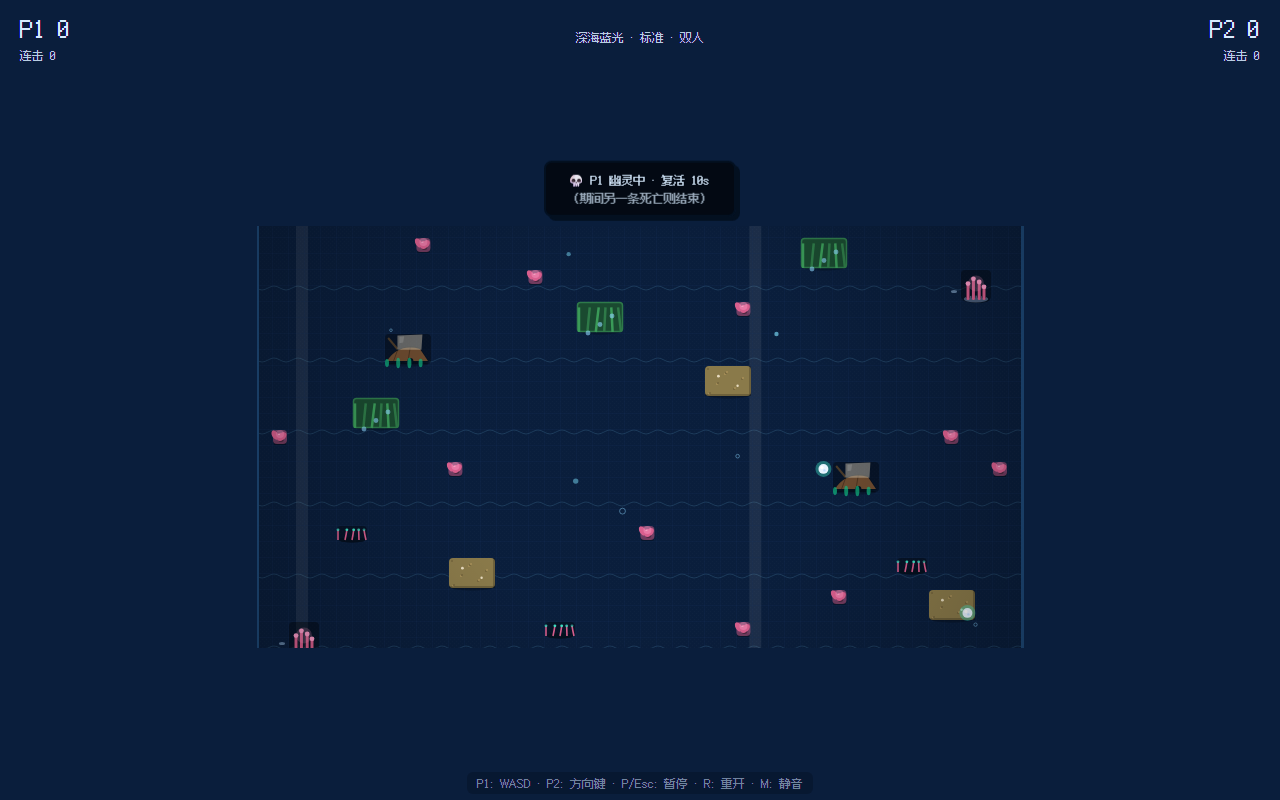
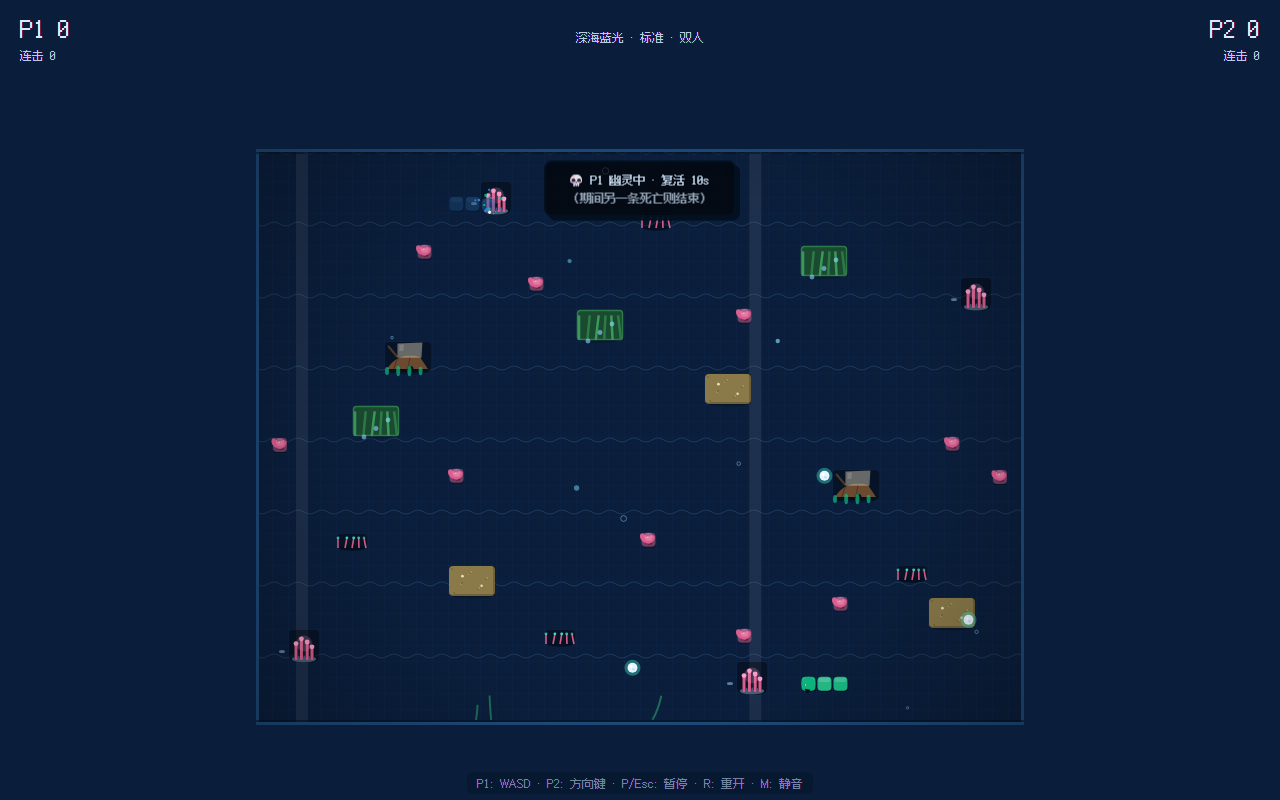
fix: 离散两档缩放（40x22满屏恒定/全图档）+ 消除canvas每帧resize性能灾难 + 渐变缓存

diff --git a/src/render/renderer.ts b/src/render/renderer.ts
@@ -4,7 +4,7 @@
 // 纯绘制，不依赖 React；状态经 EngineView 传入
 // ============================================================
 import type { Cell, Direction, SnakeState, Theme } from "../game/core/types"
-import { CELL, VIEW_PX_H, VIEW_PX_W, VIEW_H, VIEW_W, VIEW_ASPECT, calcCoopView, clampCam, fitScale, type ViewSize } from "./camera"
+import { CELL, VIEW_PX_H, VIEW_PX_W, VIEW_H, VIEW_W, calcCoopView, clampCam, fitScale, type ViewSize } from "./camera"
 import { DIFFICULTY_PRESETS } from "../game/core/constants"
 import { obstacleCell } from "../game/core/obstacles"
 import { drawAo, drawObstacleShape, renderStaticLayer } from "./staticLayer"
@@ -46,6 +46,8 @@ export class Renderer {
   private lastContainerH = 0
   private lastScale = 0
   private shade = 0 // 档位切换遮罩（0~1）
+  private vignetteGrad: CanvasGradient | null = null
+  private vignetteKey = ""
 
   constructor(canvas: HTMLCanvasElement) {
     this.canvas = canvas
@@ -91,29 +93,26 @@ export class Renderer {
     // ---- 相机与动态缩放（docs/11/13）----
     const mapPxW = map.grid.w * CELL
     const mapPxH = map.grid.h * CELL
-    // 目标视野：coop=两蛇包围盒+边距（拉远），solo=默认
+    // 目标视野：coop=两蛇包围盒→离散档位（40 或全图），solo=默认（docs/13 第 4 版）
     let targetView: ViewSize = { w: VIEW_W, h: VIEW_H }
     if (view.mode === "coop" && view.snakes.length === 2) {
       const a = view.snakes[0].body[0]
       const b = view.snakes[1].body[0]
       targetView = calcCoopView(Math.abs(a.x - b.x) + 1, Math.abs(a.y - b.y) + 1)
     }
-    // 平滑缩放（docs/13 丝滑化）：指数衰减 + 每帧限速；h 由 w 推导保持 4:3 同步
-    const diff = targetView.w - this.viewW
-    const maxStep = 6 * dt // 每帧最多变化 6 格/秒（~4s 从近距到全图）
-    const step = Math.max(-maxStep, Math.min(maxStep, diff * dt * 3))
-    this.viewW += step
-    this.viewH = this.viewW / VIEW_ASPECT
-    // canvas 尺寸连续像素变化（docs/13：消除整数格阶跃震动；浮点视野×16 取整）
-    const pxW = Math.round(this.viewW * CELL)
-    const pxH = Math.round(this.viewH * CELL)
+    // 离散档位直接切换（无连续 lerp；canvas 尺寸只在切换时变 → 消除每帧 resize 性能灾难）
+    this.viewW = targetView.w
+    this.viewH = targetView.h
+    // canvas 尺寸（像素）
+    const pxW = this.viewW * CELL
+    const pxH = this.viewH * CELL
     if (this.canvas.width !== pxW || this.canvas.height !== pxH) {
       const scale = fitScale(this.lastContainerW, this.lastContainerH, pxW, pxH)
       this.canvas.width = pxW
       this.canvas.height = pxH
       this.canvas.style.width = `${pxW * scale}px`
       this.canvas.style.height = `${pxH * scale}px`
-      // scale 档位切换（2↔1）→ 遮罩过渡，避免跳变感
+      // scale 档位切换 → 遮罩过渡，避免跳变感
       if (scale !== this.lastScale) {
         this.lastScale = scale
         this.shade = 1
@@ -637,10 +636,16 @@ export class Renderer {
   ): void {
     const w = this.canvas.width
     const h = this.canvas.height
-    const g = ctx.createRadialGradient(w / 2, h / 2, Math.min(w, h) * 0.45, w / 2, h / 2, Math.max(w, h) * 0.75)
-    g.addColorStop(0, "rgba(0,0,0,0)")
-    g.addColorStop(1, "rgba(0,0,0,0.35)")
-    ctx.fillStyle = g
+    // 渐变缓存（docs/13 帧率优化：避免每帧创建渐变对象）
+    const key = `${w}x${h}`
+    if (!this.vignetteGrad || this.vignetteKey !== key) {
+      this.vignetteKey = key
+      const g = ctx.createRadialGradient(w / 2, h / 2, Math.min(w, h) * 0.45, w / 2, h / 2, Math.max(w, h) * 0.75)
+      g.addColorStop(0, "rgba(0,0,0,0)")
+      g.addColorStop(1, "rgba(0,0,0,0.35)")
+      this.vignetteGrad = g
+    }
+    ctx.fillStyle = this.vignetteGrad
     ctx.fillRect(0, 0, w, h)
     void theme
   }

diff --git a/src/render/camera.test.ts b/src/render/camera.test.ts
@@ -1,44 +1,37 @@
 // ============================================================
-// render/camera.test.ts —— 相机/动态缩放测试（docs/13）
+// render/camera.test.ts —— 相机/视野档位测试（docs/13）
 // ============================================================
 import { describe, expect, it } from "vitest"
-import { MAX_VIEW_W, MIN_VIEW_W, calcCoopView, clampCam, VIEW_ASPECT, VIEW_W } from "./camera"
+import { VIEW_H, VIEW_W, FULL_VIEW_H, FULL_VIEW_W, calcCoopView, clampCam } from "./camera"
 
-describe("calcCoopView", () => {
-  it("双蛇距离近 → 最小视野附近（margin 8 主导）", () => {
+describe("calcCoopView（离散两档，docs/13 第 4 版）", () => {
+  it("双蛇距离近 → 默认档 40×22（与单人同尺寸，满屏）", () => {
     const v = calcCoopView(3, 3)
-    // needW = max(3+16, (3+16)*VIEW_ASPECT)
-    expect(v.w).toBeGreaterThanOrEqual(MIN_VIEW_W)
-    expect(v.w).toBeCloseTo(19 * VIEW_ASPECT, 0)
-    expect(v.h).toBeCloseTo(v.w / VIEW_ASPECT)
+    expect(v).toEqual({ w: VIEW_W, h: VIEW_H })
   })
 
-  it("双蛇距离远 → 视野拉远（缩小）", () => {
-    const v = calcCoopView(30, 10)
-    expect(v.w).toBeGreaterThan(MIN_VIEW_W)
-    expect(v.h).toBeCloseTo(v.w / VIEW_ASPECT)
+  it("双蛇距离中等 → 默认档（窗口恒定满屏，不再缩小）", () => {
+    const v = calcCoopView(20, 3)
+    // needW = max(20+16, (3+16)*1.82=34.6) = 36 ≤ 40 → 默认档
+    expect(v.w).toBe(VIEW_W)
   })
 
-  it("保持 4:3 比例", () => {
-    const v = calcCoopView(12, 20)
-    expect(v.h).toBeCloseTo(v.w / VIEW_ASPECT)
+  it("横向距离主导时按宽度判断", () => {
+    const v = calcCoopView(30, 3)
+    // needW = 30+16=46 > 40 → 全图档
+    expect(v.w).toBe(FULL_VIEW_W)
   })
 
-  it("封顶 MAX_VIEW_W（整图）", () => {
+  it("双蛇拉远超默认档 → 全图档 48×36", () => {
     const v = calcCoopView(45, 30)
-    expect(v.w).toBe(MAX_VIEW_W)
+    expect(v).toEqual({ w: FULL_VIEW_W, h: FULL_VIEW_H })
   })
 
-  it("横向距离主导时按宽度 + margin 双侧（docs/13）", () => {
-    const v = calcCoopView(25, 3)
-    // 需要 25 + 8*2 = 41 > 最小，按宽度
-    expect(v.w).toBe(41)
-  })
-
-  it("margin 保证蛇离视野边缘有距离（docs/13 边距修复）", () => {
-    const v = calcCoopView(10, 10)
-    // needW = max(10+16, (10+16)*4/3) = 34.67（高向主导）
-    expect(v.w).toBeCloseTo(26 * VIEW_ASPECT, 0)
+  it("margin 计入需求宽度", () => {
+    // boxW 24 + 16 = 40 → 恰好默认档（不大于 40）
+    expect(calcCoopView(24, 3).w).toBe(VIEW_W)
+    // boxW 25 + 16 = 41 > 40 → 全图
+    expect(calcCoopView(25, 3).w).toBe(FULL_VIEW_W)
   })
 })
 
@@ -54,14 +47,8 @@ describe("clampCam", () => {
     expect(c.y).toBe(0)
   })
 
-  it("大视野（40 格宽）时 clamp 上限更小（docs/13 修复：按当前视野计算）", () => {
-    const c = clampCam(999, 999, 768, 576, 40, 30)
-    expect(c.x).toBe(768 - 40 * 16)
-    expect(c.y).toBe(576 - 30 * 16)
-  })
-
-  it("视野大于地图时 clamp 到 0（全图视野）", () => {
-    const c = clampCam(100, 100, 768, 576, MAX_VIEW_W, 36)
+  it("全图档视野时 clamp 到 0", () => {
+    const c = clampCam(100, 100, 768, 576, FULL_VIEW_W, FULL_VIEW_H)
     expect(c.x).toBe(0)
     expect(c.y).toBe(0)
   })

diff --git a/src/render/camera.ts b/src/render/camera.ts
@@ -53,12 +53,13 @@ export function clampCam(
   }
 }
 
-// ---------- 动态缩放（docs/13：双人距离远时拉远视野） ----------
+// ---------- 动态缩放（docs/13：离散两档，窗口恒定满屏） ----------
 
-/** 视野格数范围：最小 26（scale2 内放大），最大 48（整图宽，切 scale1 全图） */
-export const MIN_VIEW_W = 26
-export const MAX_VIEW_W = 48 // 整图宽（48×36），两蛇任意位置都可见
 export const VIEW_ASPECT = VIEW_W / VIEW_H // 40:22 宽屏矩形（docs/13 第 3 点）
+
+/** 全图档视野（整图 48×36，scale 1） */
+export const FULL_VIEW_W = 48
+export const FULL_VIEW_H = 36
 
 export interface ViewSize {
   w: number
@@ -66,9 +67,9 @@ export interface ViewSize {
 }
 
 /**
- * 双人动态视野：基于两蛇包围盒计算所需视野。
- * 需要容纳 包围盒 + margin 边距，保持宽屏比例；clamp 到 [MIN, MAX]。
- * 26~40 格区间为 scale2 连续缩放（窗口恒定满屏）；>40 格切 scale1 全图（遮罩过渡）。
+ * 双人视野档位（docs/13 第 4 版：离散两档，消除窗口收缩与 canvas 每帧 resize）：
+ * - 包围盒+边距 ≤ 40 格 → 默认档 40×22（scale2 恒定满屏，与单人同尺寸）
+ * - 超出 → 全图档 48×36（scale1，遮罩过渡）
  */
 export function calcCoopView(
   boxW: number,
@@ -76,6 +77,8 @@ export function calcCoopView(
   margin = 8,
 ): ViewSize {
   const needW = Math.max(boxW + margin * 2, (boxH + margin * 2) * VIEW_ASPECT)
-  const w = Math.min(Math.max(needW, MIN_VIEW_W), MAX_VIEW_W)
-  return { w, h: w / VIEW_ASPECT }
+  if (needW > VIEW_W) {
+    return { w: FULL_VIEW_W, h: FULL_VIEW_H }
+  }
+  return { w: VIEW_W, h: VIEW_H }
 }
